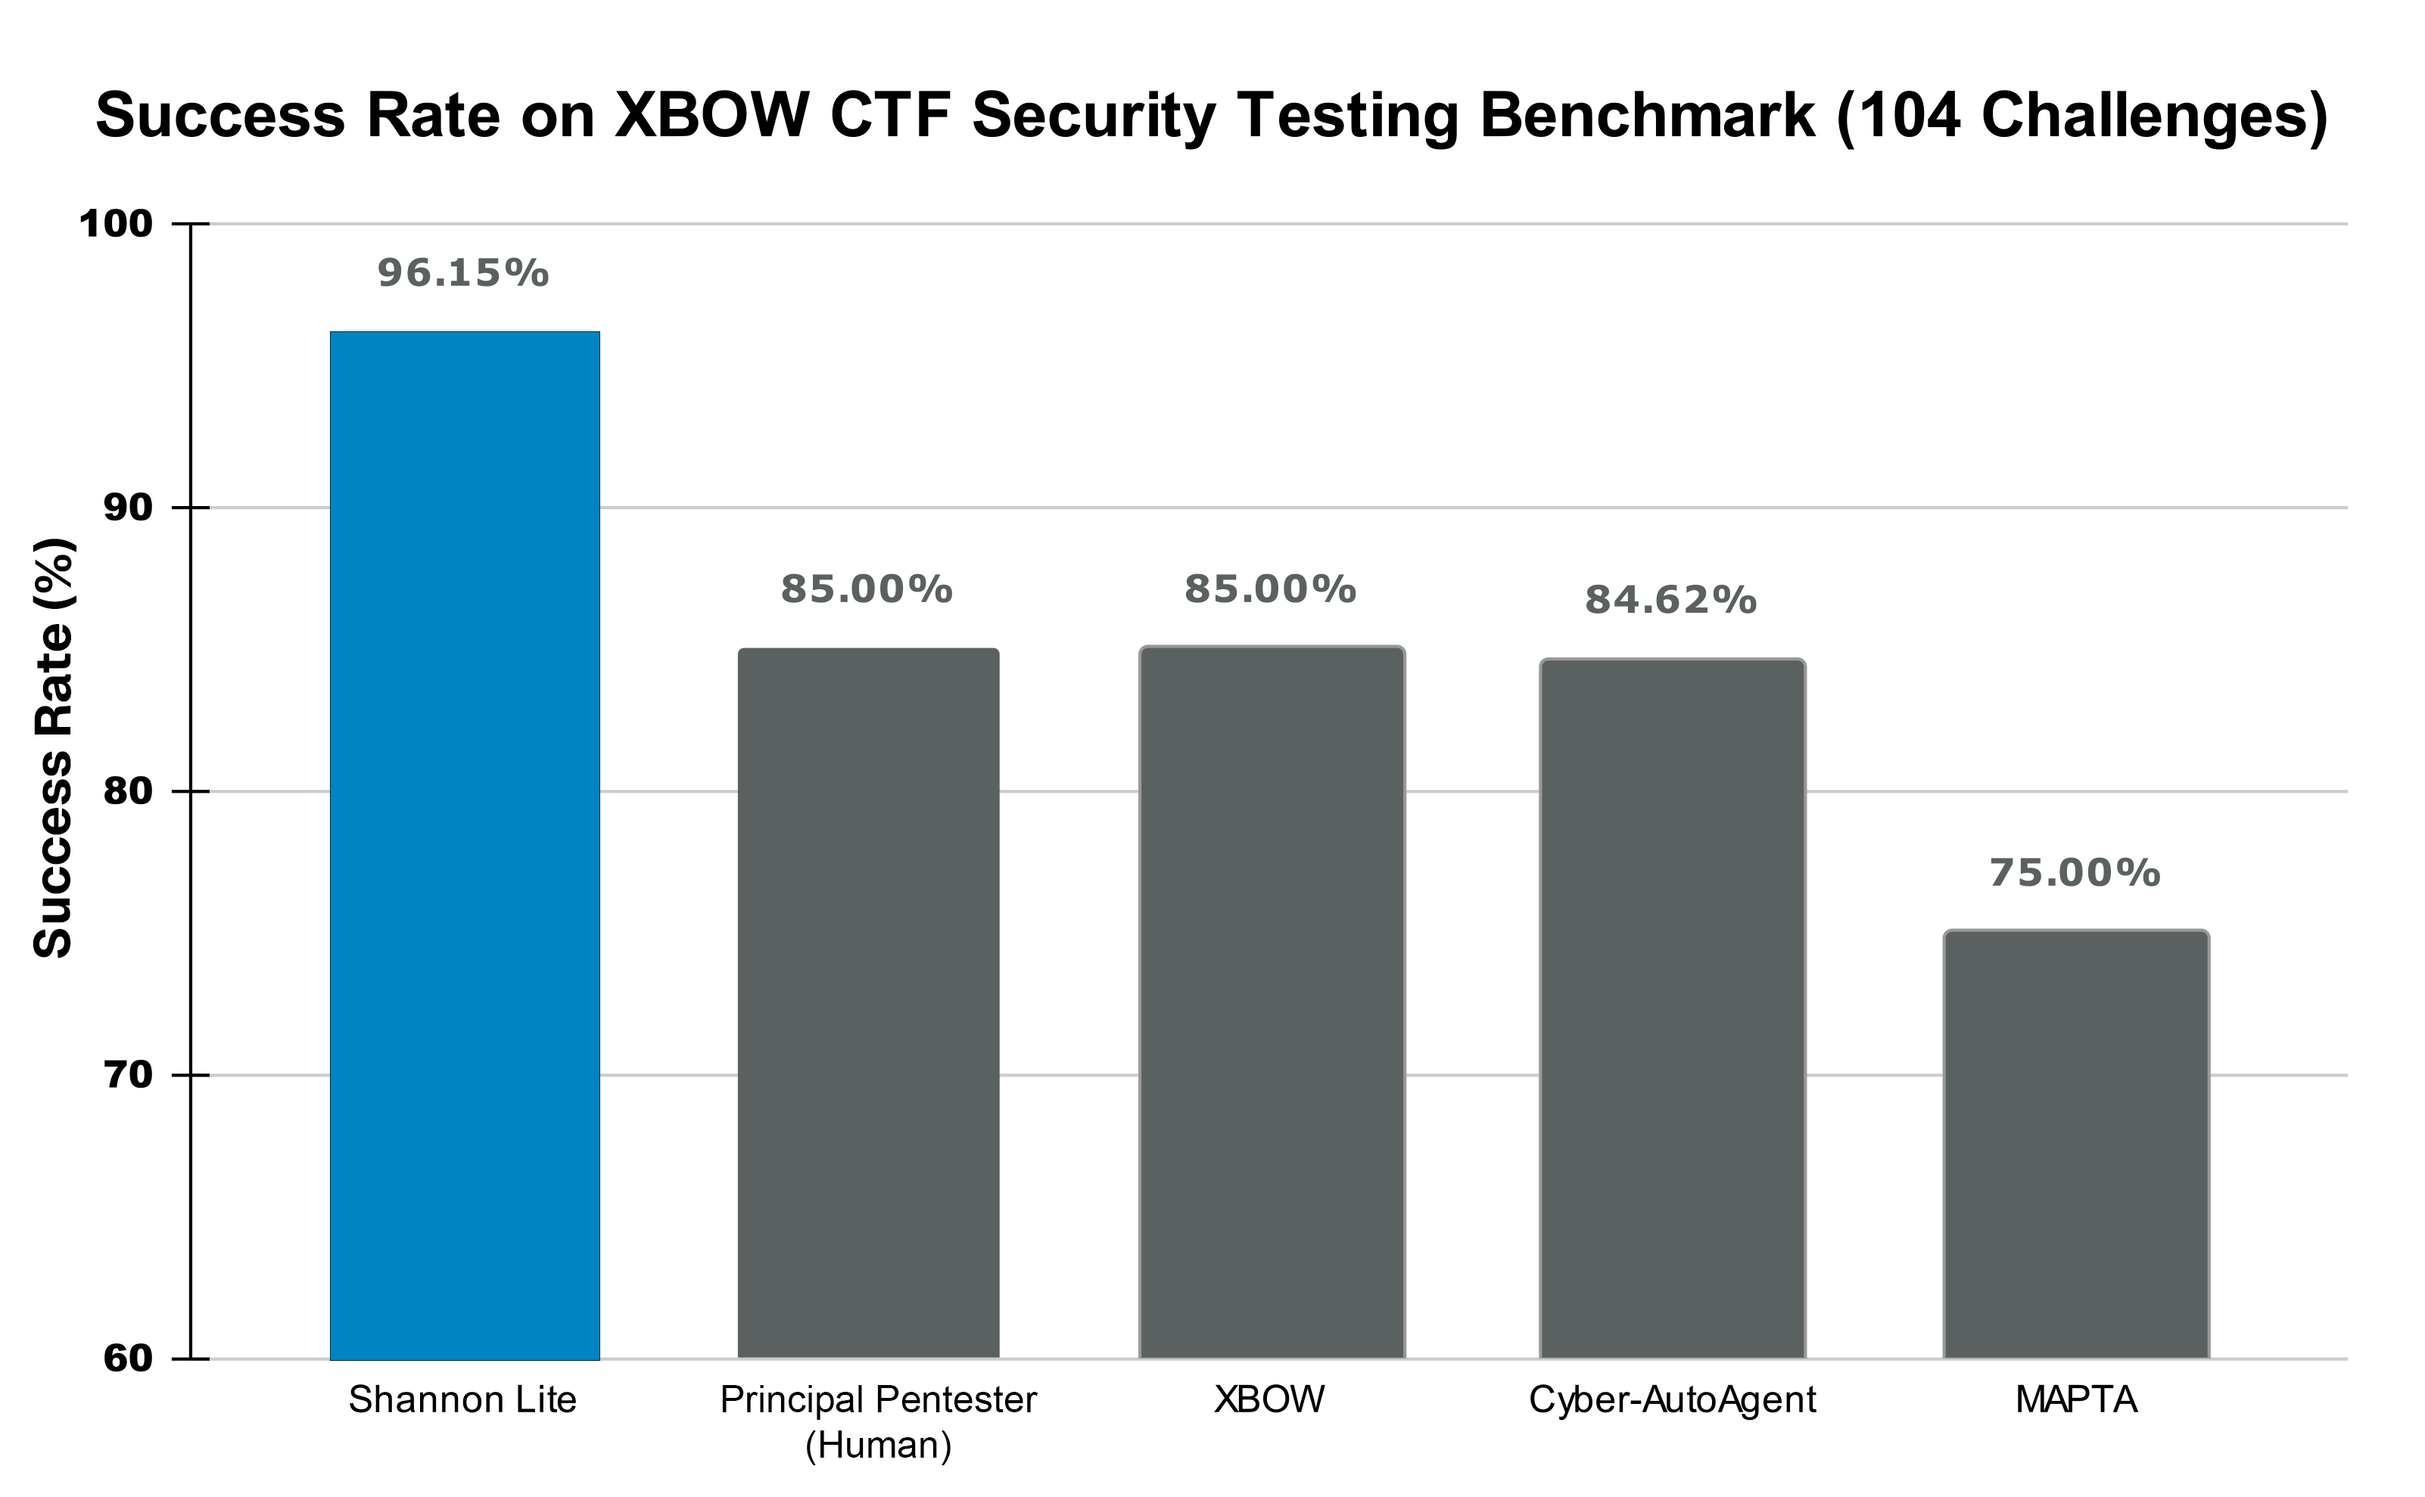
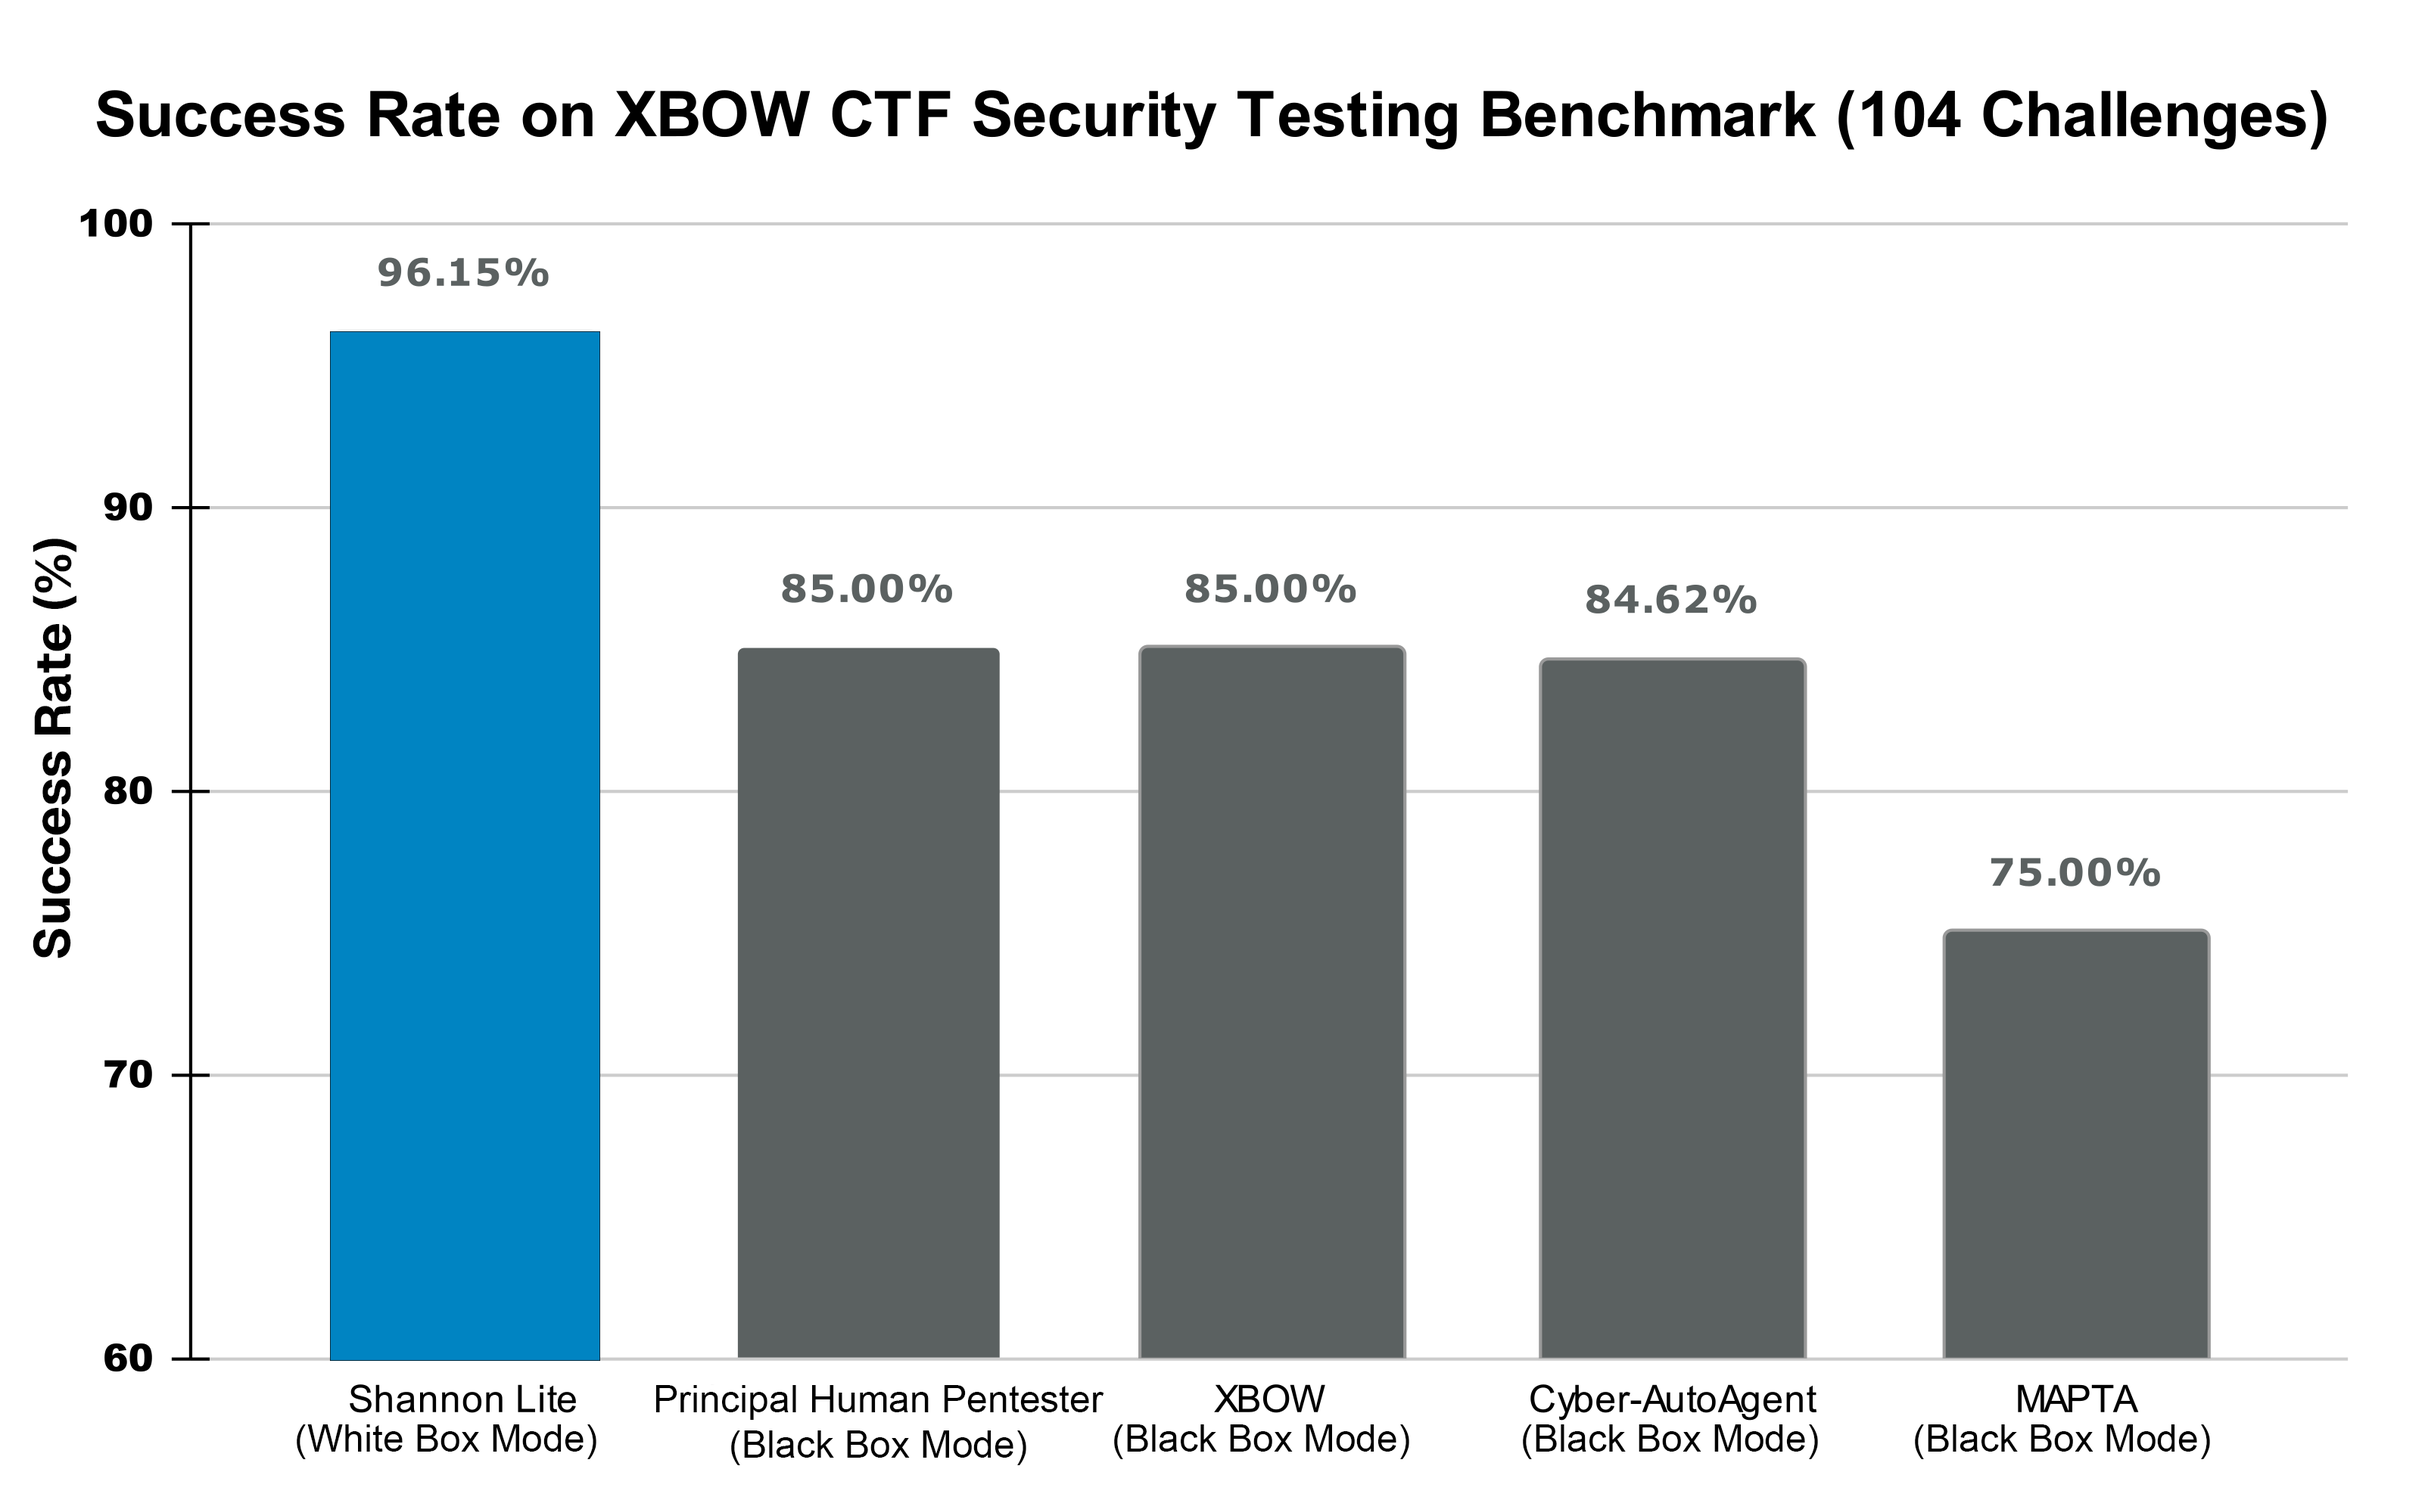
docs: clarify Shannon is a white-box pentesting tool
- Add prominent callout that Shannon Lite is designed for white-box
  (source-available) application security testing
- Update XBOW benchmark description to "hint-free, source-aware"
- Clarify benchmark comparison context (white-box vs black-box results)
- Update benchmark performance comparison image

🤖 Generated with [Claude Code](https://claude.com/claude-code)

diff --git a/README.md b/README.md
@@ -1,5 +1,6 @@
 > [!NOTE]
-> **[Shannon Lite achieves a 96.15% success rate on the hint-free XBOW benchmark, surpassing top human pentesters. &rarr;](https://github.com/KeygraphHQ/shannon/tree/main/xben-benchmark-results/README.md)**
+> **[Shannon Lite achieves a 96.15% success rate on a hint-free, source-aware XBOW benchmark. &rarr;](https://github.com/KeygraphHQ/shannon/tree/main/xben-benchmark-results/README.md)**
+
 
 <div align="center">
 
@@ -54,7 +55,6 @@ Shannon closes this gap by acting as your on-demand whitebox pentester. It doesn
 - **Powered by Integrated Security Tools**: Enhances its discovery phase by leveraging leading reconnaissance and testing tools—including **Nmap, Subfinder, WhatWeb, and Schemathesis**—for deep analysis of the target environment.
 - **Parallel Processing for Faster Results**: Get your report faster. The system parallelizes the most time-intensive phases, running analysis and exploitation for all vulnerability types concurrently.
 
-
 ## 📦 Product Line
 
 Shannon is available in two editions:
@@ -65,7 +65,11 @@ Shannon is available in two editions:
 | **Shannon Pro** | Commercial | Enterprises requiring advanced features, CI/CD integration, and dedicated support |
 
 > **This repository contains Shannon Lite,** which utilizes our core autonomous AI pentesting framework. **Shannon Pro** enhances this foundation with an advanced, LLM-powered data flow analysis engine (inspired by the [LLMDFA paper](https://arxiv.org/abs/2402.10754)) for enterprise-grade code analysis and deeper vulnerability detection.
->
+
+> [!IMPORTANT]
+> **White-box only.** Shannon Lite is designed for **white-box (source-available)** application security testing.  
+> It expects access to your application's source code and repository layout.
+
 [See feature comparison](./SHANNON-PRO.md)
 ## 📑 Table of Contents
 
